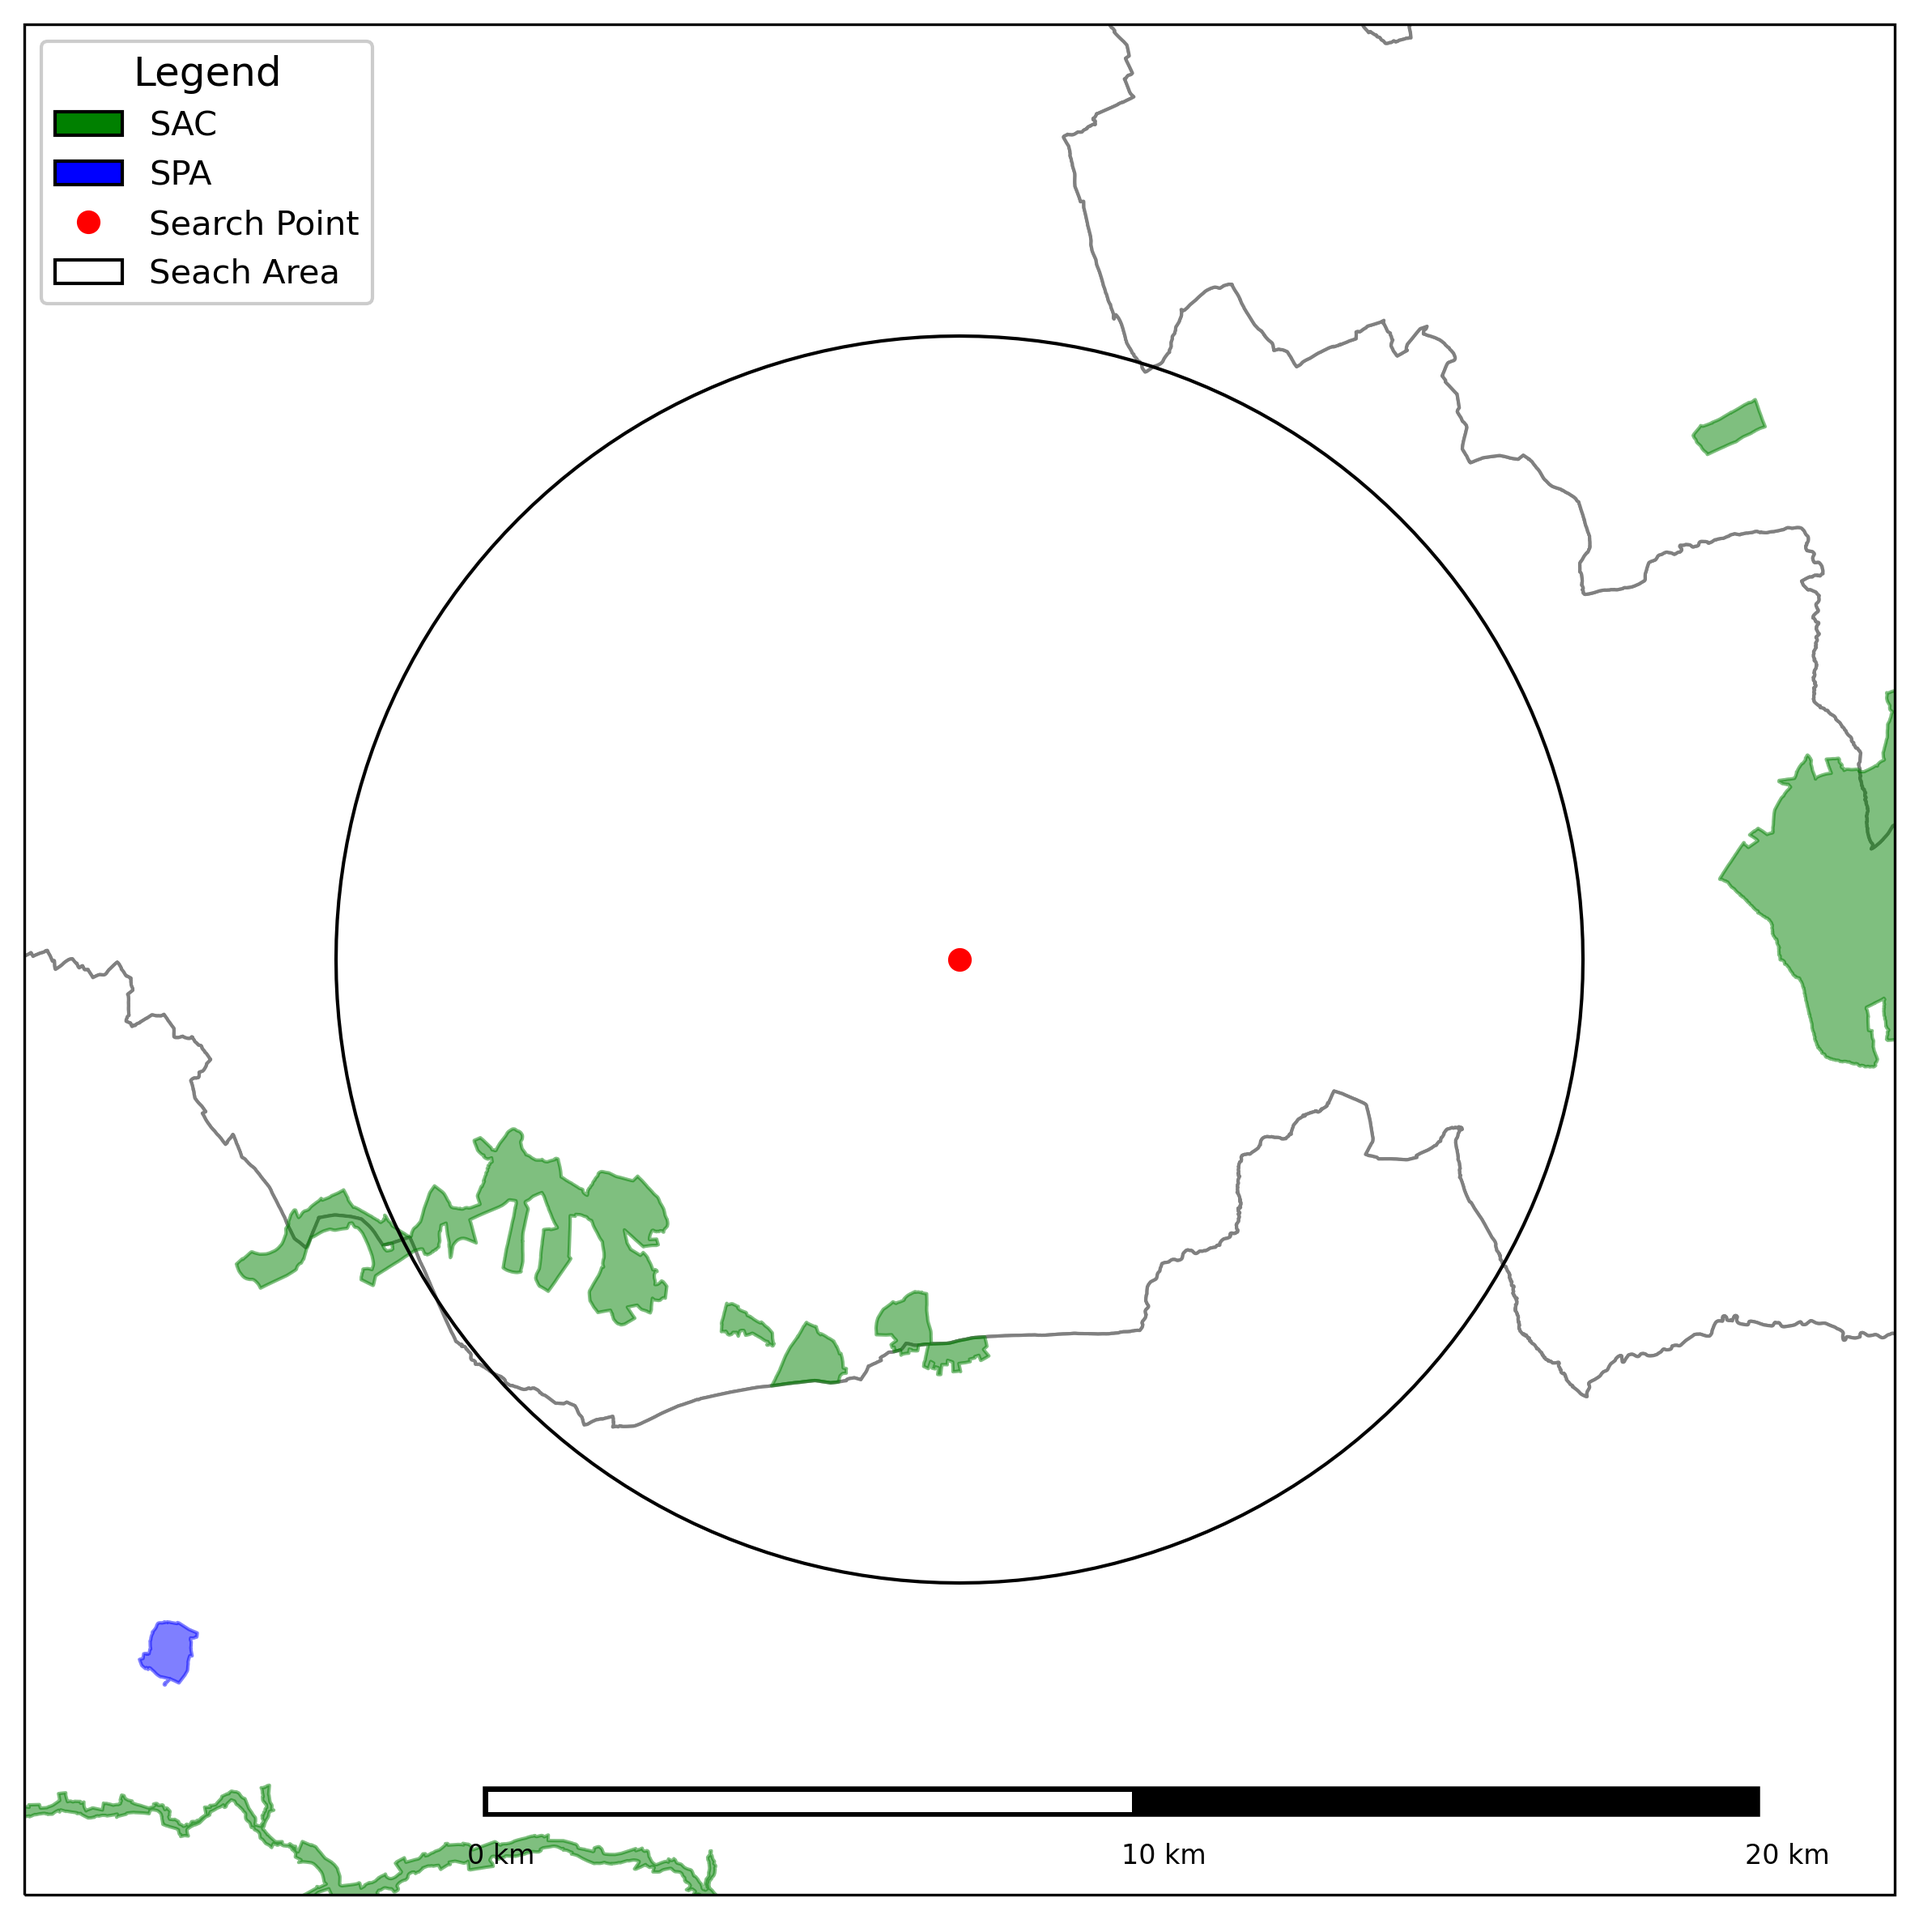
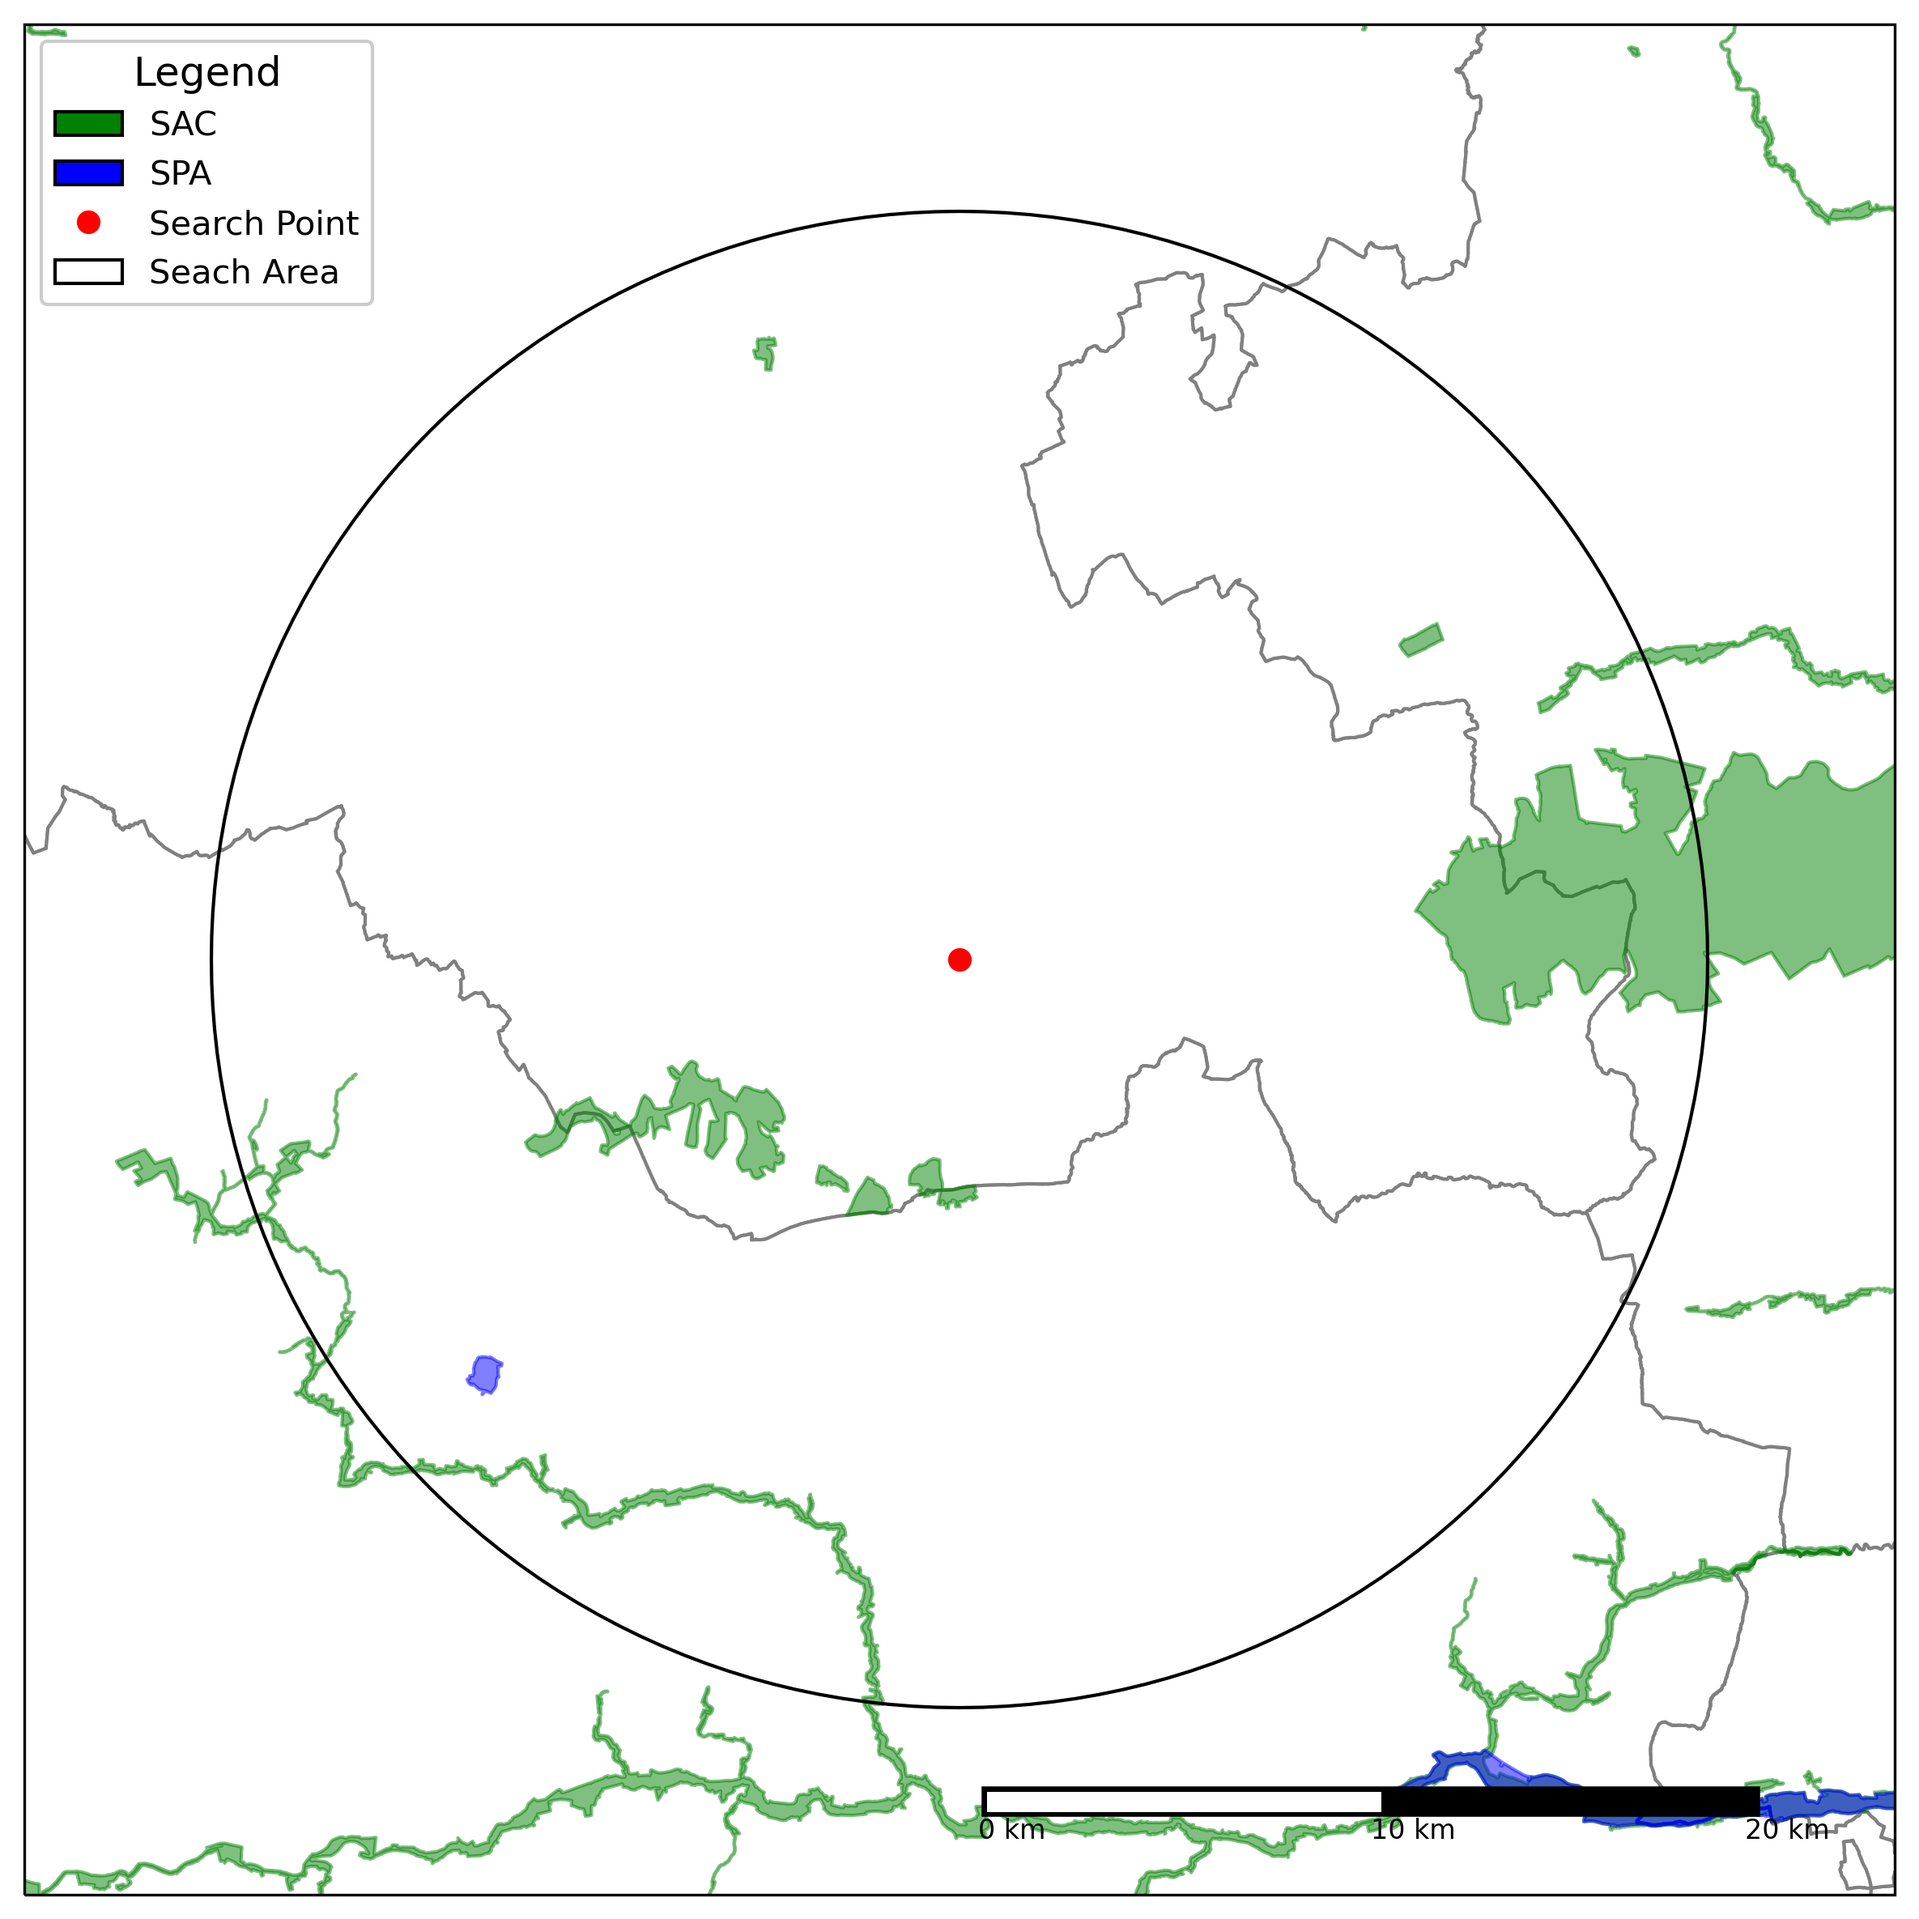
User input changed from m to km
User input changed from m to km - scalebar code adjusted to account for greater scale ranges

diff --git a/Natura2000sites.py b/Natura2000sites.py
@@ -57,9 +57,9 @@ yin = 621905.056 # commented out for testing float(input())
     #print ('Coordinates must be entered in a number format such as 123456.78')
 userinput = Point(xin, yin)
 
-print ('Please enter the search distance (m)')
+print ('Please enter the search distance (km)')
 ZoI = float(input())
-userbuffer = userinput.buffer(ZoI, resolution=50) # Buffer of 15 km around the search point to select Natura 2000 Sites.
+userbuffer = userinput.buffer((ZoI * 1000), resolution=50) # Buffer around the search point to select Natura 2000 Sites.
 
 #-------------------------------------Fuctions to help mapping---------------------------------------------------------
 # Function to generate matplotlib handles for each feature.
@@ -80,7 +80,7 @@ def scale_bar(ax, location=(0.92, 0.05)):
     sbx = x0 + (x1 - x0) * location[0]
     sby = y0 + (y1 - y0) * location[1]
 
-    if ZoI >= 10000:
+    if ZoI >= 10:
         ax.plot([sbx, sbx - 20000], [sby, sby], color='k', linewidth=9, transform=ax.projection)
         ax.plot([sbx, sbx - 10000], [sby, sby], color='k', linewidth=6, transform=ax.projection)
         ax.plot([sbx- 10000, sbx - 20000], [sby, sby], color='w', linewidth=6, transform=ax.projection)
@@ -89,14 +89,23 @@ def scale_bar(ax, location=(0.92, 0.05)):
         ax.text(sbx-10000, sby-1000, '10 km', transform=ax.projection, fontsize=8)
         ax.text(sbx-20500, sby-1000, '0 km', transform=ax.projection, fontsize=8)
 
-    else:
+    elif ZoI >= 5:
         ax.plot([sbx, sbx - 10000], [sby, sby], color='k', linewidth=9, transform=ax.projection)
         ax.plot([sbx, sbx - 5000], [sby, sby], color='k', linewidth=6, transform=ax.projection)
         ax.plot([sbx - 5000, sbx - 10000], [sby, sby], color='w', linewidth=6, transform=ax.projection)
 
         ax.text(sbx, sby - 500, '10 km', transform=ax.projection, fontsize=8)
-        ax.text(sbx - 5000, sby - 1000, '5 km', transform=ax.projection, fontsize=8)
-        ax.text(sbx - 10250, sby - 1000, '0 km', transform=ax.projection, fontsize=8)
+        ax.text(sbx - 5000, sby - 500, '5 km', transform=ax.projection, fontsize=8)
+        ax.text(sbx - 10250, sby - 500, '0 km', transform=ax.projection, fontsize=8)
+
+    else:
+        ax.plot([sbx, sbx - 5000], [sby, sby], color='k', linewidth=9, transform=ax.projection)
+        ax.plot([sbx, sbx - 2500], [sby, sby], color='k', linewidth=6, transform=ax.projection)
+        ax.plot([sbx - 2500, sbx - 5000], [sby, sby], color='w', linewidth=6, transform=ax.projection)
+
+        ax.text(sbx, sby - 250, '5 km', transform=ax.projection, fontsize=8)
+        ax.text(sbx - 2500, sby - 250, '2.5 km', transform=ax.projection, fontsize=8)
+        ax.text(sbx - 5125, sby - 250, '0 km', transform=ax.projection, fontsize=8)
 #_______________________________Creating map________________________________________________________________________
 # create figure of size 10x10
 myFig = plt.figure(figsize=(10, 10))
@@ -115,10 +124,12 @@ ax.add_feature(outline_feature)
 # using the boundary of the userbuffer, zoom the map to our area of interest
 xmin, ymin, xmax, ymax = userbuffer.bounds
 # xmin, xmax, ymin, ymax, coordinates are reordered here and defined depends on userbuffer scale
-if ZoI >= 10000:
+if ZoI >= 10:
     ax.set_extent([xmin-5000, xmax+5000, ymin-5000, ymax+5000], crs=myCRS)
-else:
+elif ZoI >= 5:
     ax.set_extent([xmin-1000, xmax+1000, ymin-1000, ymax+1000], crs=myCRS)
+else:
+    ax.set_extent([xmin - 500, xmax + 500, ymin - 500, ymax + 500], crs=myCRS)
 
 # Setting the symbologies for the features of interest
 sac_feat = ShapelyFeature(sac['geometry'],  # first argument is the geometry
